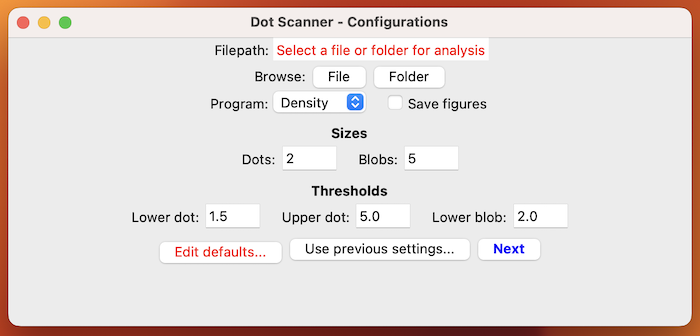
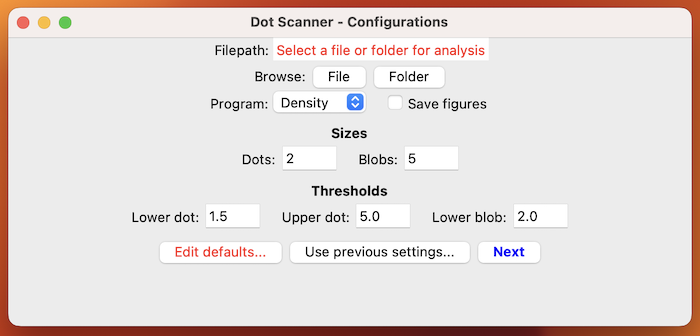
Updated padding in configurations window

diff --git a/dotscanner/ui/UserSettings.py b/dotscanner/ui/UserSettings.py
@@ -169,8 +169,8 @@ class UserSettings:
         self.buttonEditDefaults.pack(
             in_=self.bottomButtons, side=tk.LEFT, pady=(5, 0))
         self.buttonUsePreviousAnalysis.pack(
-            in_=self.bottomButtons, side=tk.LEFT)
-        self.buttonNext.pack(in_=self.bottomButtons, side=tk.LEFT)
+            in_=self.bottomButtons, side=tk.LEFT, pady=(5, 0))
+        self.buttonNext.pack(in_=self.bottomButtons, side=tk.LEFT, pady=(5, 0))
 
         self.labelWarning = tk.Label(self.window, text="", fg="red")
 

diff --git a/setup.py b/setup.py
@@ -8,7 +8,7 @@ long_description = (here / 'README.md').read_text(encoding='utf-8')
 
 setup(
     name='dotscanner',
-    version='1.5.4',  # Required
+    version='1.5.5',  # Required
     description='A program designed for analysis of microscope imaging data',
     long_description=long_description,
     long_description_content_type='text/markdown',

diff --git a/README.md b/README.md
@@ -165,7 +165,7 @@ Brian Davis
 
 ## Release History
 
-- 1.5.4
+- 1.5.5
   - Bug fixes
 - 1.5.0
   - Added ability to remove unreliable lifetime data from noisy datasets
